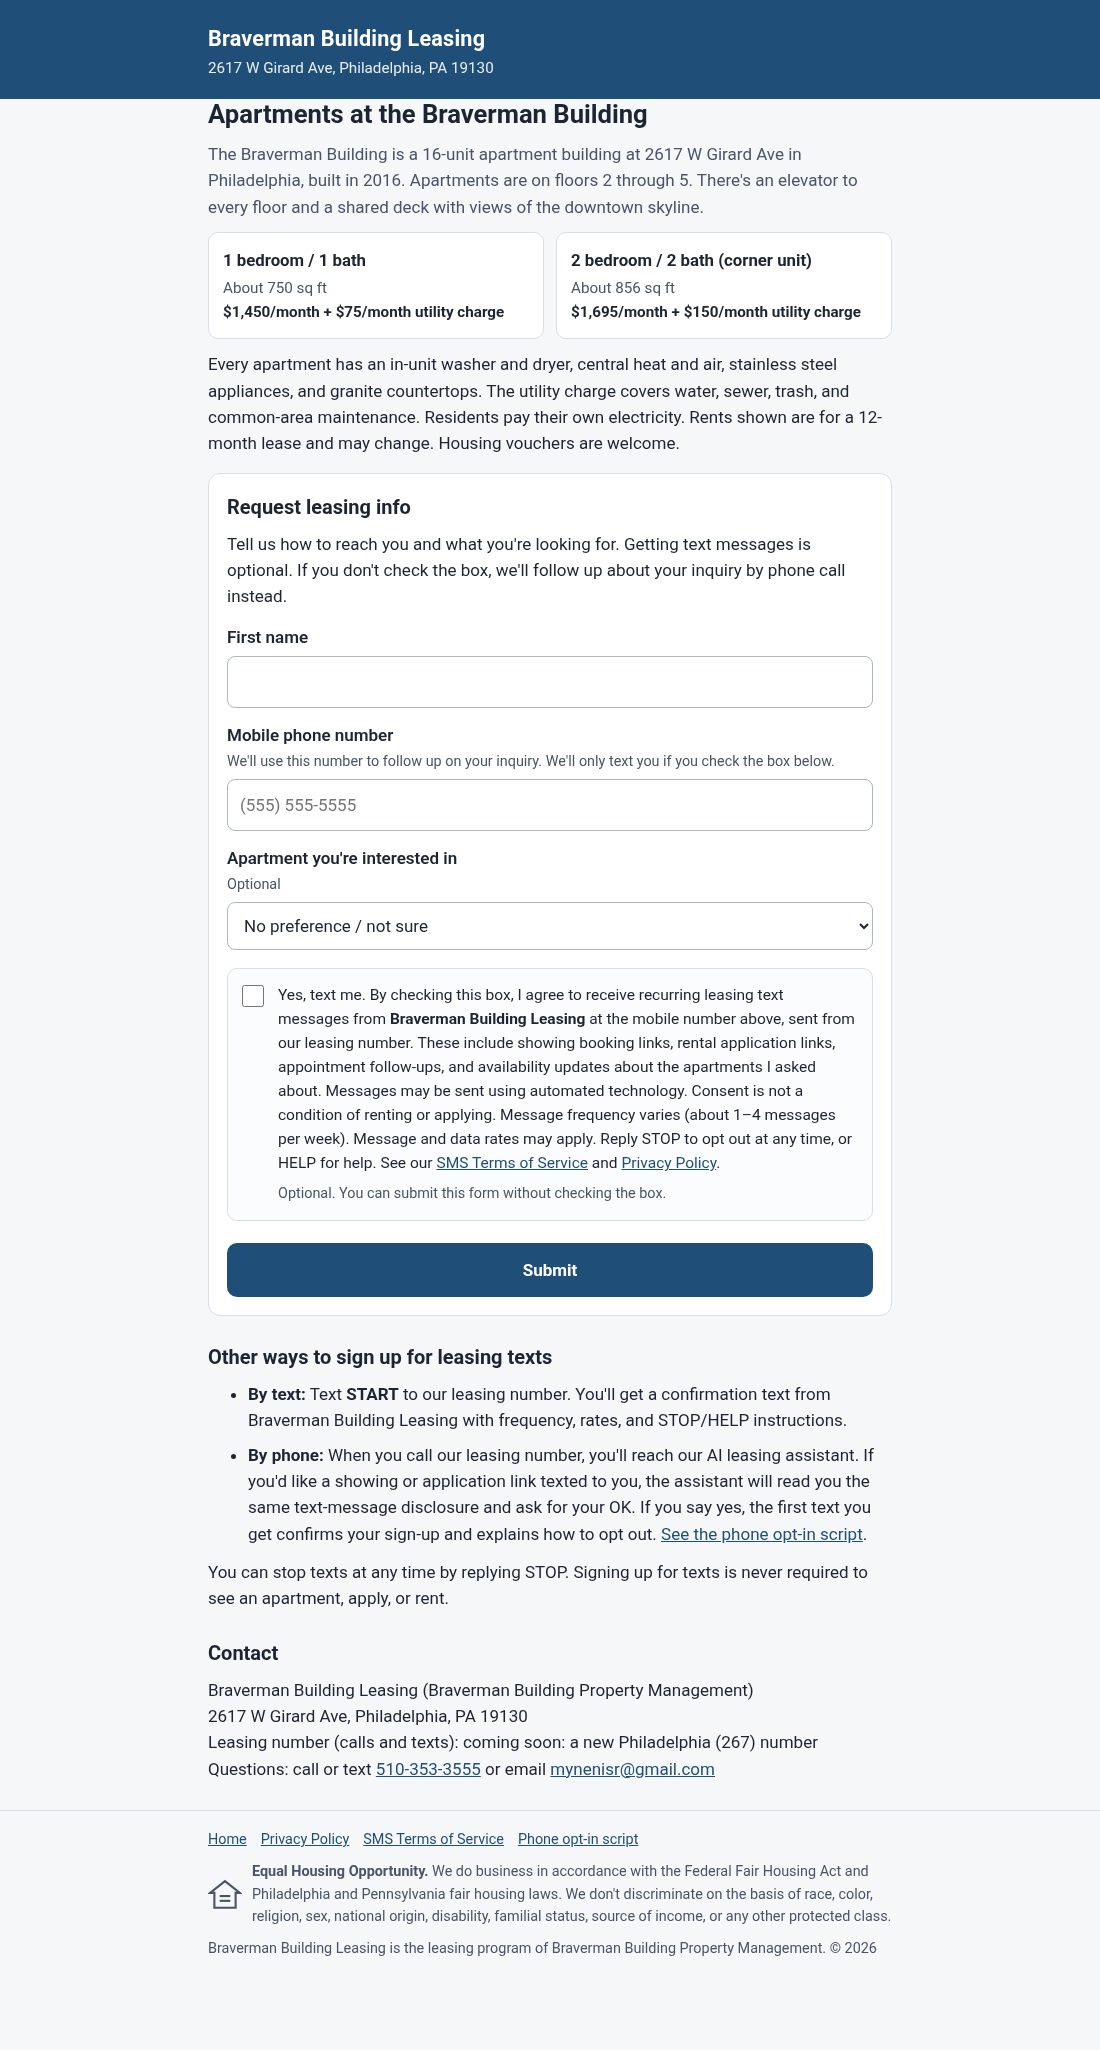
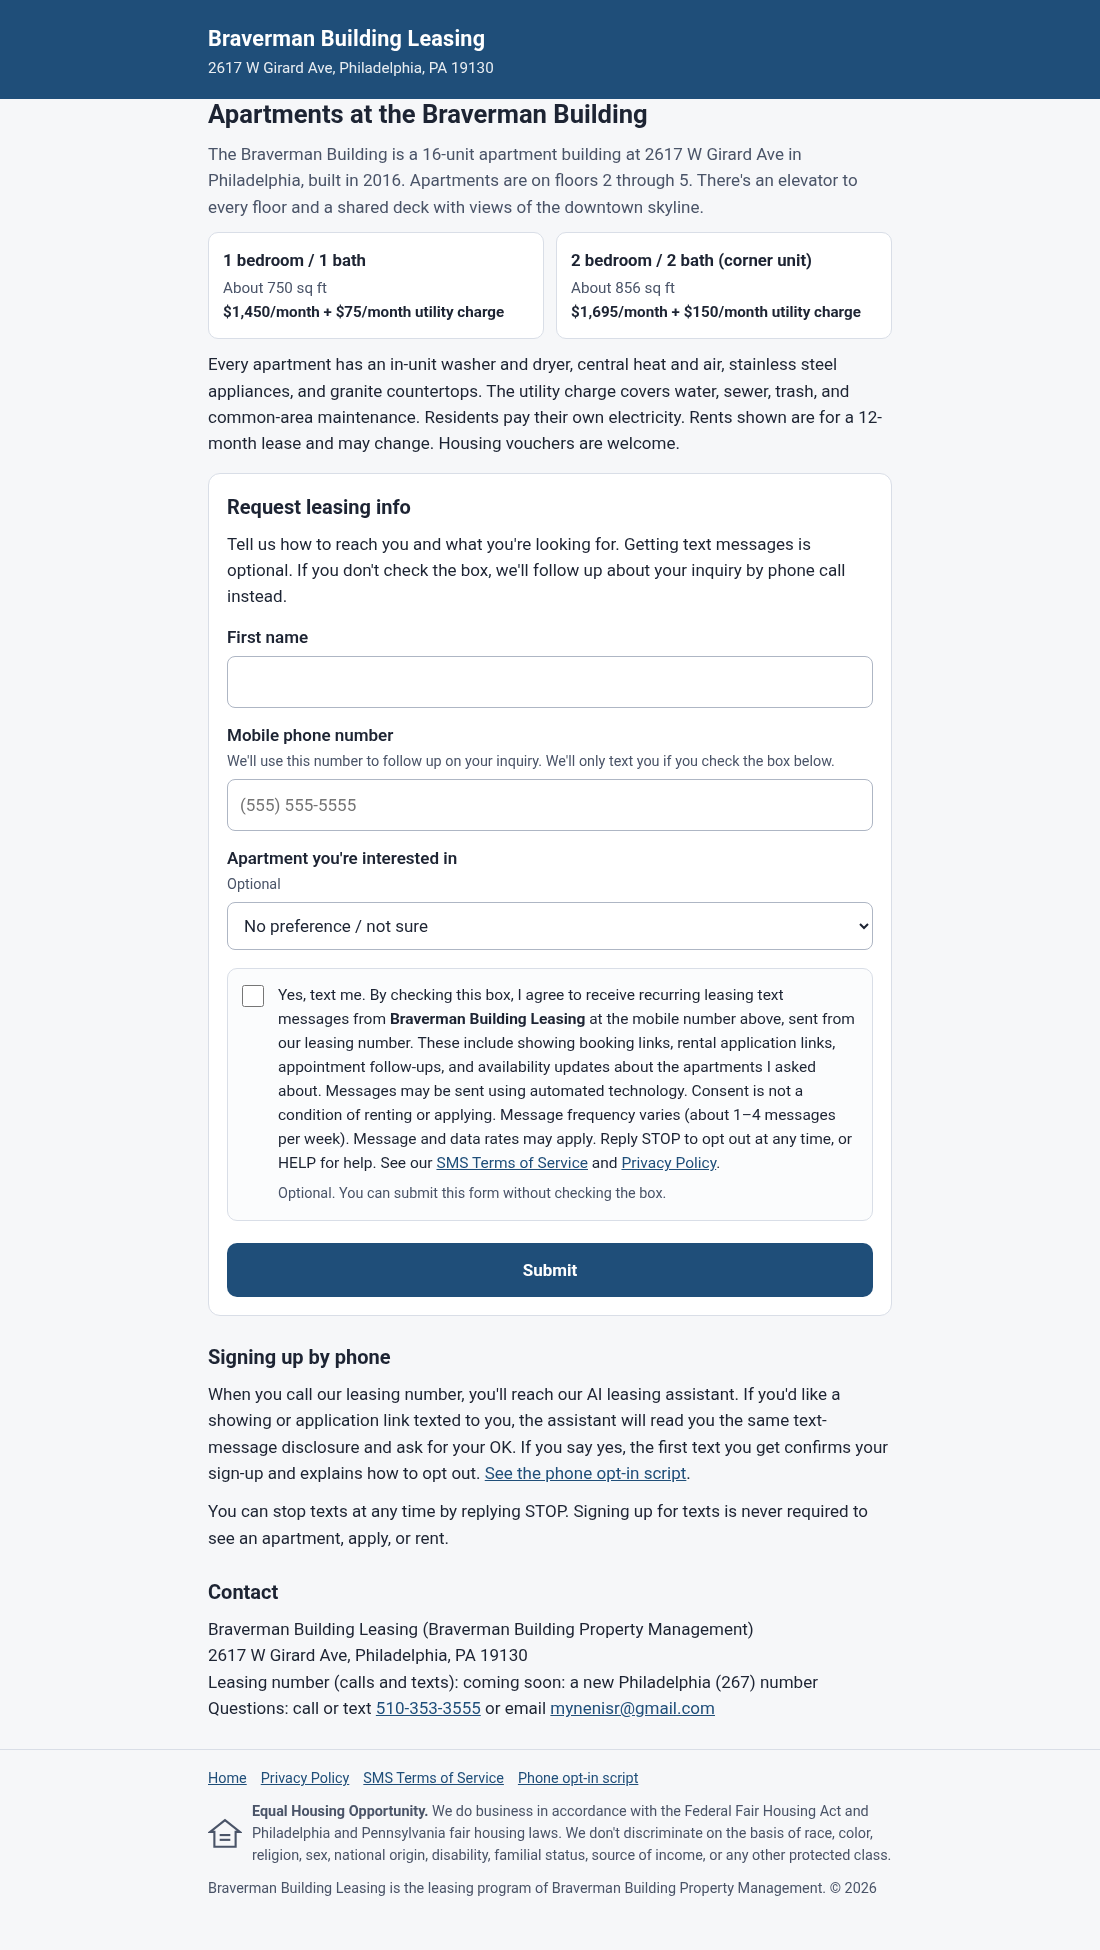
Align opt-in with A2P 10DLC guidance: web form + verbal only, bold STOP/HELP, CTIA privacy line, terms link in confirmation

Changed region(s): [[0.1855, 0.0, 0.8036, 0.9538]]

diff --git a/verbal-optin.html b/verbal-optin.html
@@ -19,11 +19,11 @@
     <!-- TODO(leasing-number): the new 267 Philadelphia leasing number is not purchased yet. When it is, replace each "our leasing number" phrase with it, e.g. (267) XXX-XXXX. -->
     <h1>Phone opt-in script</h1>
     <p class="lead">How callers to our leasing number sign up for Braverman Building Leasing texts</p>
-    <p>Our leasing number is answered by an AI leasing assistant for Braverman Building Property Management. The assistant tells callers it's an AI assistant at the start of the call. It never sends texts unless the caller clearly says yes after hearing the disclosure below. Callers can also sign up on our <a href="./">web form</a> or by texting START to our leasing number.</p>
+    <p>Our leasing number is answered by an AI leasing assistant for Braverman Building Property Management. The assistant tells callers it's an AI assistant at the start of the call. It never sends texts unless the caller clearly says yes after hearing the disclosure below. Callers can also sign up on our <a href="./">web form</a>.</p>
 
     <h2>1. The assistant asks for permission</h2>
     <p>When a caller wants a showing booking link or an application link, the assistant says:</p>
-    <div class="script">"I can text you the link. Before I do: is it OK for Braverman Building Leasing to send leasing texts to the number you're calling from? They'd include showing and application links, appointment follow-ups, and availability updates about the apartments you asked about. It's usually about one to four messages a week, and message and data rates may apply. You can reply STOP at any time to opt out, or HELP for help. Saying yes isn't required to rent or apply. Is that OK?"</div>
+    <div class="script">"I can text you the link. Before I do: is it OK for Braverman Building Leasing to send leasing texts to the number you're calling from? They'd include showing and application links, appointment follow-ups, and availability updates about the apartments you asked about. It's usually about one to four messages a week, and message and data rates may apply. You can reply STOP at any time to opt out, or HELP for help. Saying yes isn't required to rent or apply. Our full texting terms and privacy policy are on our website, and your first text will include the link. Is that OK?"</div>
 
     <h2>2. The caller answers</h2>
     <ul>
@@ -33,7 +33,7 @@
 
     <h2>3. The first text confirms the sign-up</h2>
     <p>The first text a caller receives is this confirmation:</p>
-    <div class="script">"Braverman Building Leasing: You're signed up for leasing texts (showing/application links, follow-ups, availability updates). About 1-4 msgs/wk. Msg &amp; data rates may apply. Help: 510-353-3555 or reply HELP. Reply STOP to opt out."</div>
+    <div class="script">"Braverman Building Leasing: You're signed up for leasing texts (showing/application links, follow-ups, availability updates). About 1-4 msgs/wk. Msg &amp; data rates may apply. Help: 510-353-3555 or reply HELP. Reply STOP to opt out. Terms &amp; privacy: https://mynenisr.github.io/braverman-leasing-optin/terms.html"</div>
     <p>Then they get the link they asked for, for example:</p>
     <div class="script">"Braverman Building Leasing: Hi Alex, here's the link to book your in-person or virtual showing of a 2BR at 2617 W Girard Ave: https://lead.showdigs.com/unit/[unit-id] Questions? Call/text 510-353-3555. Reply STOP to opt out."</div>
 

diff --git a/terms.html b/terms.html
@@ -24,7 +24,7 @@
     <p>Braverman Building Leasing sends leasing text messages from our leasing number to people who ask about renting an apartment at the Braverman Building, 2617 W Girard Ave, Philadelphia, PA 19130, and who agree to receive them. Messages include showing booking links, rental application links, appointment follow-ups, and availability updates about the apartments you asked about. Messages may be sent using automated technology.</p>
 
     <h2>How you sign up</h2>
-    <p>You can sign up by checking the text-message box on our <a href="./">leasing inquiry form</a>, by saying yes when our AI leasing assistant asks for permission during a call to our leasing number (<a href="verbal-optin.html">see the phone opt-in script</a>), or by texting START to our leasing number. We send a confirmation text after you sign up. Signing up is optional. Consent is not a condition of renting, applying, or seeing an apartment.</p>
+    <p>You can sign up by checking the text-message box on our <a href="./">leasing inquiry form</a>, by saying yes when our AI leasing assistant asks for permission during a call to our leasing number (<a href="verbal-optin.html">see the phone opt-in script</a>). We send a confirmation text after you sign up. Signing up is optional. Consent is not a condition of renting, applying, or seeing an apartment.</p>
 
     <h2>Message frequency</h2>
     <p>Message frequency varies. You'll usually get about 1&ndash;4 messages per week while you're looking for an apartment.</p>
@@ -33,10 +33,10 @@
     <p>Message and data rates may apply. Check with your wireless carrier for details about your plan. We don't charge you for our texts.</p>
 
     <h2>Opting out (STOP)</h2>
-    <p>You can cancel at any time. Reply STOP to any of our texts. You can also reply UNSUBSCRIBE, END, QUIT, CANCEL, or STOPALL. We'll send one final text confirming you've been unsubscribed, and then you won't get any more texts from us unless you sign up again. To sign up again, text START to our leasing number.</p>
+    <p><strong>You can cancel at any time. Reply STOP to any of our texts.</strong> You can also reply UNSUBSCRIBE, END, QUIT, CANCEL, or STOPALL. We'll send one final text confirming you've been unsubscribed, and then you won't get any more texts from us unless you sign up again. To sign up again, reply <strong>START</strong> to any of our texts or use our <a href="./">web form</a>.</p>
 
     <h2>Help (HELP)</h2>
-    <p>Reply HELP to any of our texts for help. You can also call or text 510-353-3555 or email <a href="mailto:mynenisr@gmail.com">mynenisr@gmail.com</a>.</p>
+    <p><strong>Reply HELP to any of our texts for help.</strong> You can also call or text 510-353-3555 or email <a href="mailto:mynenisr@gmail.com">mynenisr@gmail.com</a>.</p>
 
     <h2>Carriers</h2>
     <p>Wireless carriers are not liable for delayed or undelivered messages. Message delivery depends on your carrier and device.</p>

diff --git a/privacy.html b/privacy.html
@@ -24,7 +24,7 @@
     <h2>Information we collect</h2>
     <ul>
       <li><strong>Information you give us:</strong> your first name, mobile phone number, and the apartment type you're interested in (1 bedroom or 2 bedroom), plus anything you tell us in a call or text.</li>
-      <li><strong>Text-message consent records:</strong> whether you agreed to receive leasing texts, how you agreed (web form, phone call, or texting START), the date and time, and the consent wording you saw or heard. We also keep a record if you opt out.</li>
+      <li><strong>Text-message consent records:</strong> whether you agreed to receive leasing texts, how you agreed (web form or phone call), the date and time, and the consent wording you saw or heard. We also keep a record if you opt out.</li>
       <li><strong>Calls to our leasing line:</strong> when you call our leasing number, our AI leasing assistant receives your phone number and what you discuss (for example, the apartment type you want and whether you'd like a showing or application link texted to you). We keep a short summary of the call for follow-up.</li>
       <li><strong>Messages:</strong> the texts we send you and the replies you send us, including STOP and HELP requests.</li>
       <li><strong>Basic technical information:</strong> like most websites, our web host may log basic technical data (such as IP address and browser type) to keep the site running and secure. We don't use advertising cookies or tracking pixels on this site.</li>
@@ -37,7 +37,7 @@
       <li>To answer your questions, and to honor STOP and HELP requests.</li>
       <li>To keep records of consent and opt-outs, and to comply with the law.</li>
     </ul>
-    <p>We don't sell your personal information.</p>
+    <p>We don't sell your personal information. We do not sell or share your SMS opt-in data or personal information with third parties for marketing purposes.</p>
 
     <h2>Who we share information with</h2>
     <p>We share information only with service providers that help us run our leasing communications, and only so they can provide those services to us. They include our phone and text-message provider (Twilio), our AI voice assistant provider, and our form-delivery provider, which forwards form submissions to our email. If you choose to book a showing through the scheduling link we send you, the scheduling service collects the information you enter on its site under its own privacy policy. We may also disclose information if required by law.</p>

diff --git a/index.html b/index.html
@@ -87,11 +87,8 @@
       </div>
     </section>
 
-    <h2>Other ways to sign up for leasing texts</h2>
-    <ul class="ways">
-      <li><strong>By text:</strong> Text <strong>START</strong> to our leasing number. You'll get a confirmation text from Braverman Building Leasing with frequency, rates, and STOP/HELP instructions.</li>
-      <li><strong>By phone:</strong> When you call our leasing number, you'll reach our AI leasing assistant. If you'd like a showing or application link texted to you, the assistant will read you the same text-message disclosure and ask for your OK. If you say yes, the first text you get confirms your sign-up and explains how to opt out. <a href="verbal-optin.html">See the phone opt-in script</a>.</li>
-    </ul>
+    <h2>Signing up by phone</h2>
+    <p>When you call our leasing number, you'll reach our AI leasing assistant. If you'd like a showing or application link texted to you, the assistant will read you the same text-message disclosure and ask for your OK. If you say yes, the first text you get confirms your sign-up and explains how to opt out. <a href="verbal-optin.html">See the phone opt-in script</a>.</p>
     <p>You can stop texts at any time by replying STOP. Signing up for texts is never required to see an apartment, apply, or rent.</p>
 
     <h2>Contact</h2>

diff --git a/script.js b/script.js
@@ -105,7 +105,7 @@ var FORM_ENDPOINT = "https://formsubmit.co/ajax/mynenisr@gmail.com";
         "You'll get a confirmation text from our leasing number. About 1&ndash;4 messages per week. Message and data rates may apply. " +
         "Reply STOP at any time to opt out, or HELP for help."
       : "<strong>Thanks" + name + "!</strong> We got your inquiry and will follow up by phone call. " +
-        "You did not sign up for text messages, so we won't text you. You can sign up any time on this page or by texting START to our leasing number.";
+        "You did not sign up for text messages, so we won't text you. You can sign up for texts any time on this page.";
     show(thanks, true);
     thanks.focus();
   }
